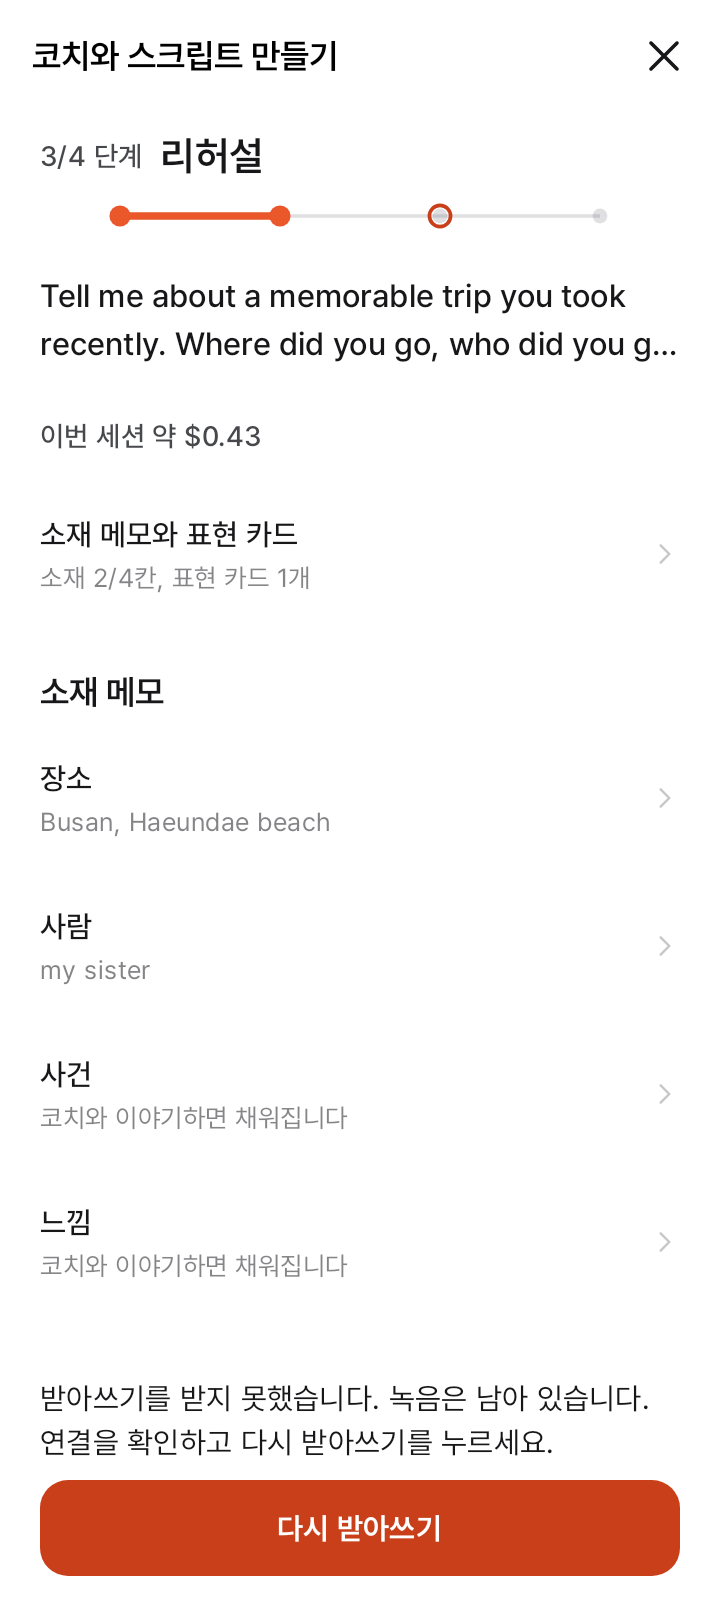
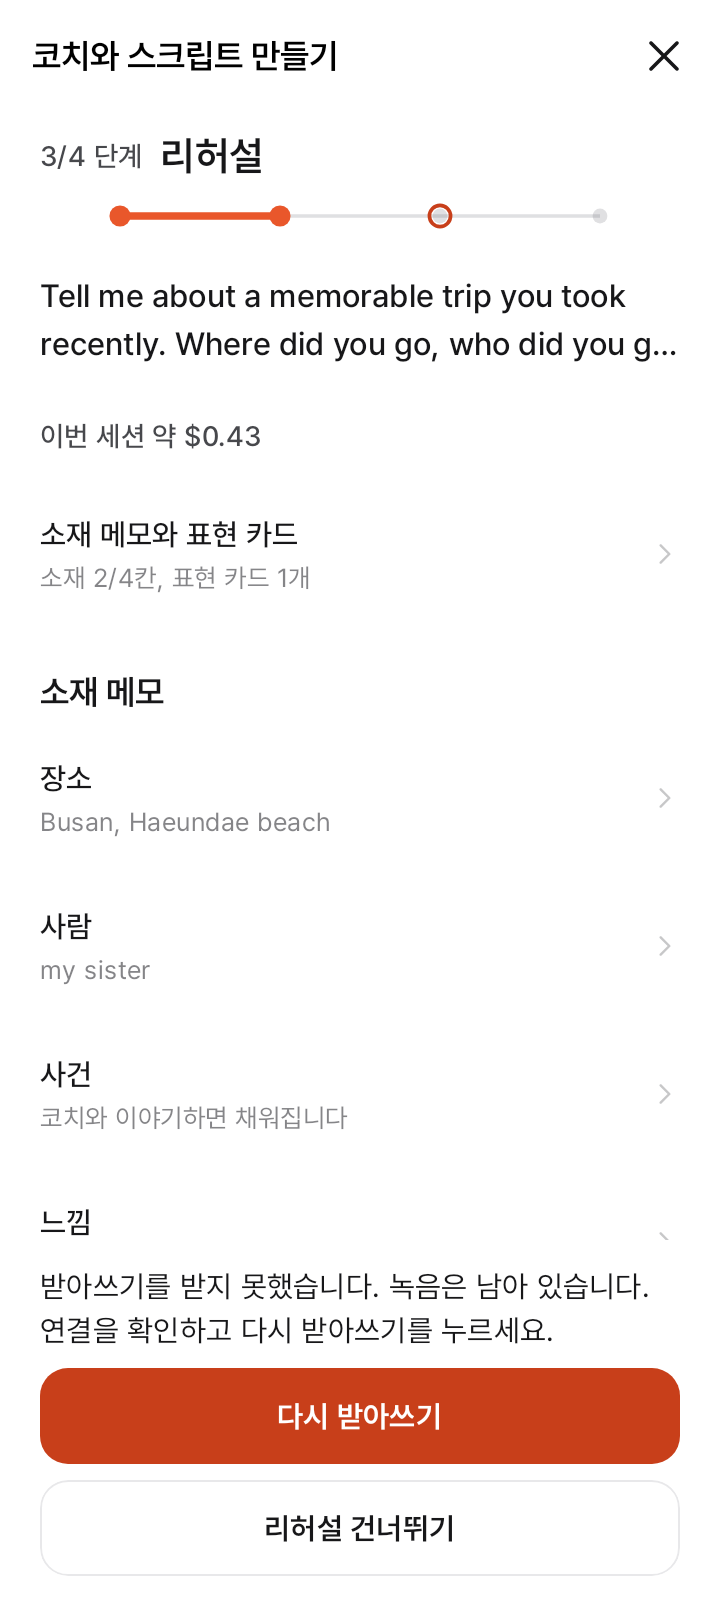
[live-rehearsal] 리허설 건너뛰기 버튼을 더하고 화면은 rehearsed 만 부르게 했다 (#266)

Changed region(s): [[0.0306, 0.7812, 0.9472, 1.0]]

diff --git a/ui/feature-live/src/commonMain/kotlin/io/github/nosorae/aiopic/ui/featurelive/RehearsalControls.kt b/ui/feature-live/src/commonMain/kotlin/io/github/nosorae/aiopic/ui/featurelive/RehearsalControls.kt
@@ -11,6 +11,8 @@ import androidx.compose.ui.Modifier
 import androidx.compose.ui.text.style.TextAlign
 import io.github.nosorae.aiopic.engine.coach.CoachPhase
 import io.github.nosorae.aiopic.ui.design.MontageButton
+import io.github.nosorae.aiopic.ui.design.MontageButtonType
+import io.github.nosorae.aiopic.ui.design.MontageButtonVariant
 import io.github.nosorae.aiopic.ui.design.MontageSpacing
 import io.github.nosorae.aiopic.ui.design.MontageTheme
 import io.github.nosorae.aiopic.ui.design.MontageVoiceRibbon
@@ -20,7 +22,7 @@ import kotlin.time.Duration
 import kotlin.time.Duration.Companion.seconds
 
 /**
- * 리허설 단계의 아래쪽(F13.1). 코치 연결이 닫혀 있어 대화 버튼 대신 녹음 시작, 녹음 중 목소리 띠와 시간과 끝내기, 받아쓰는 중, 실패 이유와 다시 하기를 보인다.
+ * 리허설 단계의 아래쪽(F13.1). 코치 연결이 닫혀 있어 대화 버튼 대신 녹음 시작, 녹음 중 목소리 띠와 시간과 끝내기, 받아쓰는 중, 실패 이유와 다시 하기, 리허설 건너뛰기를 보인다.
  * 소재 메모와 표현 카드는 위쪽 대화 화면에 그대로 있다.
  */
 @Composable
@@ -53,6 +55,16 @@ internal fun RehearsalControls(state: RehearsalUiState, onIntent: (LiveCoachInte
             else -> Res.string.live_rehearse_start to RehearsalIntent.StartRecording
         }
         MontageButton(text = stringResource(text), onClick = { intent?.let(onIntent) }, loading = intent == null, modifier = Modifier.fillMaxWidth())
+        // 받아쓰기가 계속 실패하거나 리허설을 하기 싫을 때 빠져나간다. 첫 리허설이면 스크립트 정리로, 두 번째면 피드백으로 간다(F13.3).
+        if (state.step == RehearsalStep.Ready) {
+            MontageButton(
+                text = stringResource(Res.string.live_rehearse_skip),
+                onClick = { onIntent(LiveCoachIntent.NextPhase) },
+                modifier = Modifier.fillMaxWidth(),
+                variant = MontageButtonVariant.Outlined,
+                type = MontageButtonType.Assistive,
+            )
+        }
     }
 }
 

diff --git a/ui/feature-live/src/commonTest/kotlin/io/github/nosorae/aiopic/ui/featurelive/LiveCoachViewModelTest.kt b/ui/feature-live/src/commonTest/kotlin/io/github/nosorae/aiopic/ui/featurelive/LiveCoachViewModelTest.kt
@@ -291,6 +291,31 @@ class LiveCoachViewModelTest {
     }
 
     @Test
+    fun `F13_3 첫 리허설을 건너뛰면 피드백 없이 스크립트 정리로 간다`() = test { db ->
+        val viewModel = rehearsing(db)
+
+        viewModel.onIntent(LiveCoachIntent.NextPhase)
+        runCurrent()
+
+        assertEquals(CoachPhase.Script to CoachStatus.Finished, viewModel.uiState.value.coach?.let { it.phase to it.status })
+        assertEquals(2, transport.connects.size)
+    }
+
+    @Test
+    fun `F13_3 두 번째 리허설을 건너뛰면 첫 받아쓰기로 피드백 단계에 다시 연결한다`() = test { db ->
+        val viewModel = rehearsing(db)
+        rehearse(viewModel)
+        viewModel.onIntent(RehearsalIntent.RehearseAgain)
+        runCurrent()
+
+        viewModel.onIntent(LiveCoachIntent.NextPhase)
+        runCurrent()
+
+        assertEquals(CoachPhase.Feedback to listOf("I went to Busan."), viewModel.uiState.value.coach?.let { it.phase to it.rehearsals })
+        assertEquals(4, transport.connects.size)
+    }
+
+    @Test
     fun `마이크를 못 열면 이유를 보이고 녹음 중이 되지 않는다`() = test { db ->
         recorder.micAvailable = false
         val viewModel = rehearsing(db)

diff --git a/ui/feature-live/src/commonMain/kotlin/io/github/nosorae/aiopic/ui/featurelive/Rehearsal.kt b/ui/feature-live/src/commonMain/kotlin/io/github/nosorae/aiopic/ui/featurelive/Rehearsal.kt
@@ -95,7 +95,6 @@ class TranscribeRehearsalUseCase(private val files: RehearsalFiles) {
             is AnalysisResult.Failed -> return if (result.error == AnalysisError.InvalidKey) RehearsalError.InvalidKey else RehearsalError.TranscriptFailed
         }
         coach.rehearsed(text)
-        coach.nextPhase()
         files.clear(directory)
         return null
     }
